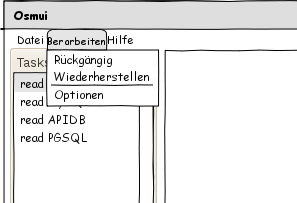
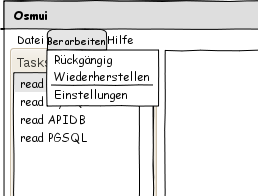
ui Angepasst auch in Spezi

diff --git a/spezifikation/spezifikation.tex b/spezifikation/spezifikation.tex
@@ -141,11 +141,12 @@ den Datentyp beste Eingabemodus gewählt.\\
 \begin{center}
 \includegraphics[width=15cm]{ui_prototype/OsmUi_Parameter_Optionen.png}
 \end{center}
-\subsubsection{Optionsdialog}
+\subsubsection{Einstellungsdialog}
 Im Einstellungsdialog können Benutzerspezifische Einstellungen von OsmUi vorgenommen werden, welche persistent in einer Konfigurationsdatei gespeichert werden.\\
 Hierzu zählen:\\
 \begin{itemize}
- \item Einstellung des Pfades zu Osmosis, welcher in Aufrufskripten verwendet werden soll
+ \item Einstellung des Pfades zu Osmosis, welcher in Aufrufskripten verwendet werden soll\\
+\includegraphics[width=15cm]{ui_prototype/OsmUi_Einstellungen.png}
 \end{itemize}
 
 
@@ -159,13 +160,13 @@ solange die Pipeline konsistent ist, andernfalls steht in der Kopierleiste ``Pip
 \subsubsection{Menüleiste}
 \begin{itemize}
 \item Datei\\
-Beim Klicken auf den Menüeintrag \textbf{Datei} öffnet sich ein Dialog. Der Benutzer kann zwischen \textbf{Neu} (Öffnen einer neuen Pipeline), \textbf{Laden...} (Laden einer gespeicherten Datei), \textbf{Speichern} (automatisches speichern der aktuellen Pipeline), \textbf{speichern unter} (speichern der vorhandenen Datei an einem selbst gewählten Ort) und \textbf{schließen} (das Programm wird geschlossen) wählen. 
+Beim Klicken auf den Menüeintrag \textbf{Datei} öffnet sich ein Dialog. Der Benutzer kann zwischen \textbf{Neu} (Öffnen einer neuen Pipeline), \textbf{Laden...} (Laden einer gespeicherten .smu Datei), \textbf{Speichern} (speichern der aktuellen eventuell inkonsistenten Pipeline, mit Positionen der Tasks, in schon vorher gespeicherte .smu Datei.), \textbf{Speichern unter} (speichern die vorhandene eventuell inkonsistente Pipeline, mit Positionen der Tasks, an einem selbst gewählten Ort in eine .smu Datei) , \textbf{Importieren aus Datei} (Importiert eine Pipeline aus einem mit OsmUi erstellen Aufrufscript und zeigt diese an.), \textbf{Importieren aus Zwischenablage} (Importiert eine Pipeline aus der Zwischenablage und zeigt diese an.), \textbf{Exportieren} (Exportiert eine Pipeline in ein Aufrufscript) und \textbf{schließen} (das Programm wird geschlossen) wählen. 
 \\ 
 \begin{center}
 \includegraphics[width=7cm]{ui_prototype/OsmUi_Dateiklein.png}
 \end{center}
 \item Bearbeiten\\
-Beim Klicken auf den Menüeintrag \textbf{Bearbeiten} öffnet sich ein Dialog. Der Benutzer kann zwischen \textbf{Rückgängig} (die letzte Änderung wird wieder rückgängig gemacht) und \textbf{wiederherstellen} (eine rückgängig gemachte Änderung wird wieder hergestellt) wählen.
+Beim Klicken auf den Menüeintrag \textbf{Bearbeiten} öffnet sich ein Dialog. Der Benutzer kann zwischen \textbf{Rückgängig} (die letzte Änderung wird wieder rückgängig gemacht), \textbf{wiederherstellen} (eine rückgängig gemachte Änderung wird wieder hergestellt) und \textbf{Einstellungen} (Den Pfad zu Osmosis einstellen) wählen.
 \\
 \begin{center}
 \includegraphics[width=7cm]{ui_prototype/OsmUi_Bearbeitenklein.png}
